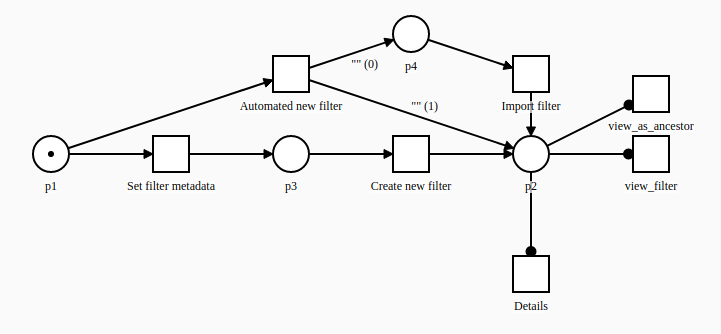
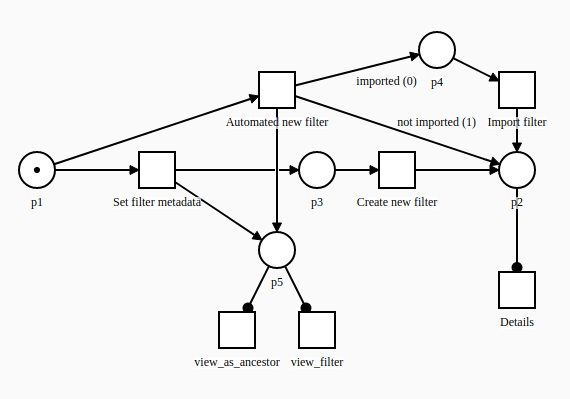
NAE-1498 - Versioned documentation
- updated documentation with changes made in NAE-1515 and NAE-1516

diff --git a/docs/search/filter.md b/docs/search/filter.md
@@ -62,7 +62,6 @@ the “process interface“ and must remain unchanged will be highlighted.
 ##### Filter
 
 ```xml
-
 <data type="filter" immediate="true">
   <id>filter</id>
   <title name="filter_field">Filter</title>
@@ -76,7 +75,6 @@ It must be `immediate`, have the ID `filter` and be of type `filter`.
 ##### Filter type
 
 ```xml
-
 <data type="enumeration_map" immediate="true">
   <id>filter_type</id>
   <title name="filter_type">Filter type</title>
@@ -97,7 +95,6 @@ therefore be freely overridden.
 ##### Filter visibility
 
 ```xml
-
 <data type="enumeration_map" immediate="true">
   <id>visibility</id>
   <title name="filter_visibility">Filter visibility</title>
@@ -124,7 +121,6 @@ can therefore be freely overridden.
 ##### Origin ViewId
 
 ```xml
-
 <data type="text" immediate="true">
   <id>origin_view_id</id>
   <title name="origin_view_id">Origin ViewId</title>
@@ -140,7 +136,6 @@ It must be `immediate`, have the ID `origin_view_id` and be of type `text`.
 ##### Filter name
 
 ```xml
-
 <data type="text">
   <id>new_title</id>
   <title name="filter_name">Filter name</title>
@@ -155,7 +150,6 @@ omitted.
 ##### I18n filter name
 
 ```xml
-
 <data type="enumeration" immediate="true">
   <id>i18n_filter_name</id>
   <title></title>
@@ -175,7 +169,6 @@ trough actions.
 ##### Filter case id
 
 ```xml
-
 <data type="text">
   <id>filter_case_id</id>
   <title></title>
@@ -193,7 +186,6 @@ omitted.
 ##### And me
 
 ```xml
-
 <data type="button">
   <id>and_me</id>
   <placeholder name="and">AND</placeholder>
@@ -209,7 +201,6 @@ omitted.
 ##### And view
 
 ```xml
-
 <data type="button">
   <id>and_view</id>
   <placeholder name="and">AND</placeholder>
@@ -228,7 +219,6 @@ omitted.
 ##### Parent filter task ref
 
 ```xml
-
 <data type="taskRef">
   <id>taskref_and_parent</id>
   <title></title>
@@ -248,7 +238,6 @@ omitted.
 ##### Trimmed origin view id
 
 ```xml
-
 <data type="text">
   <id>trimmed_origin_view_id</id>
   <title name="filter_from_view_id">Filter from view with ID</title>
@@ -267,7 +256,6 @@ omitted.
 ##### Is imported
 
 ```xml
-
 <data type="number">
   <id>is_imported</id>
   <title></title>
@@ -283,7 +271,6 @@ It must have the ID `is_imported`, be of type `number` and have the initial valu
 ##### Is not imported
 
 ```xml
-
 <data type="number">
   <id>is_not_imported</id>
   <title></title>
@@ -299,7 +286,6 @@ It must have the ID `is_not_imported`, be of type `number` and have the initial 
 ##### Missing allowed nets
 
 ```xml
-
 <data type="text">
   <id>missing_allowed_nets</id>
   <title name="missing_allowed_nets">Missing processes</title>
@@ -318,7 +304,6 @@ It must have the ID `missing_allowed_nets`, be of type `text` and have the compo
 ##### Missing nets translations
 
 ```xml
-
 <data type="enumeration_map">
   <id>missing_nets_translation</id>
   <title></title>
@@ -335,6 +320,46 @@ message in the textarea is dynamically generated depending on the active locale.
 
 It must have the ID `missing_nets_translation` and be of type `enumeration_map`.
 
+##### My full filter
+
+```xml
+<data type="taskRef">
+  <id>my_full_filter</id>
+  <title></title>
+</data>
+```
+
+This task ref holds a reference to the view_filter transition and is displayed in all tasks that should show the contents of the saved filter.
+
+It is not referenced by anything outside the process, so it can be freely modified, provided all the internal references are compatible. 
+
+#### Functions
+
+##### initializeMyFullFilterTaskRef
+
+```xml
+<function scope="process" name="initializeMyFullFilterTaskRef">
+    {
+        com.netgrif.workflow.petrinet.domain.dataset.TaskField myFullFilter
+    ->
+        change myFullFilter value {return [findTask({it.caseId.eq(useCase.stringId).and(it.transitionId.eq("view_filter"))}).stringId]}
+    }
+</function>
+```
+
+This utility process-scoped function is used to set the value of the `my_full_filter` task ref data variable.
+
+It is called in a finish-post action of both the `frontend_create` and `auto_create` transitions,
+since their execution makes the searched transition (`view_filter`) executable.
+
+#### Roles
+
+##### System
+
+The system role is used to hide the `view_filter` and `view_as_ancestor` tasks from the user.
+
+The other transitions executed by the system are never searched for by the frontend API and therefore don't need to have this role assigned to them.
+
 #### Transitions
 
 The net consists of seven transitions. **Set filter metadata** and **create new filter** are used when creating filter
@@ -347,7 +372,6 @@ display filter preview.
 ##### Set filter metadata
 
 ```xml
-
 <transition>
   <id>frontend_create</id>
   <label>Set filter metadata</label>
@@ -389,21 +413,25 @@ Custom set data requests can be sent via the frontend filter API. These requests
 want to set additional properties to your newly created filter instances you can do so by adding the necessary data
 variables to this task and then use the frontend API to set their values.
 
+Once it finishes the `view_filter` and `view_as_ancestor` tasks become executable.
+An action is bound to the finish of this transition, that sets the reference of the `my_full_filter` task ref.
+
 ##### Create new filter
 
 ```xml
-
 <transition>
   <id>newFilter</id>
   <assignPolicy>auto</assignPolicy>
   <label name="create_new_filter">Create new filter</label>
   <dataGroup>
     <dataRef>
-      <id>filter</id>
+      <id>my_full_filter</id>
       <logic>
         <behavior>visible</behavior>
       </logic>
     </dataRef>
+  </dataGroup>
+  <dataGroup>
     <dataRef>
       <id>visibility</id>
       <logic>
@@ -434,7 +462,6 @@ It must have the transition ID `newFilter`.
 ##### Automated new filter
 
 ```xml
-
 <transition>
   <id>auto_create</id>
   <label>Automated new filter</label>
@@ -479,10 +506,12 @@ It must contain 4 data fields that are set via a `setData` API call.
 * `origin_view_id`
 * `visibility`
 
+Once it finishes the `view_filter` and `view_as_ancestor` tasks become executable.
+An action is bound to the finish of this transition, that sets the reference of the `my_full_filter` task ref.
+
 ##### Import filter
 
 ```xml
-
 <transition>
   <id>import_filter</id>
   <label name="import_filter">Import filter</label>
@@ -538,7 +567,6 @@ change some fundamental filter properties:
 ##### Details
 
 ```xml
-
 <transition>
   <id>t2</id>
   <label name="details">Details</label>
@@ -574,7 +602,6 @@ omitting this transition.
 ##### View filter
 
 ```xml
-
 <transition>
   <id>view_filter</id>
   <label></label>
@@ -641,7 +668,6 @@ It must contain 1 data field:
 ##### View as ancestor
 
 ```xml
-
 <transition>
   <id>view_as_ancestor</id>
   <label></label>

diff --git a/docs/views/navigation.md b/docs/views/navigation.md
@@ -147,10 +147,8 @@ entries present in current application menu.
 
 </div>
 
-After selecting entries of which new menu configration will consist, user should specify unique menu name in field **
-Exported menu identifier** and then click **Add entries to export** button to add seleced menu configuration to export.
-To update selection after some menu entry title has been changed or a menu entry has been removed, clicking button **
-Update entries** will refresh the selection.
+After selecting entries of which new menu configration will consist, user should specify unique menu name in field **Exported menu identifier** and then click **Add entries to export** button to add seleced menu configuration to export.
+To update selection after some menu entry title has been changed or a menu entry has been removed, clicking button **Update entries** will refresh the selection.
 
 <div style="text-align:center">
 
